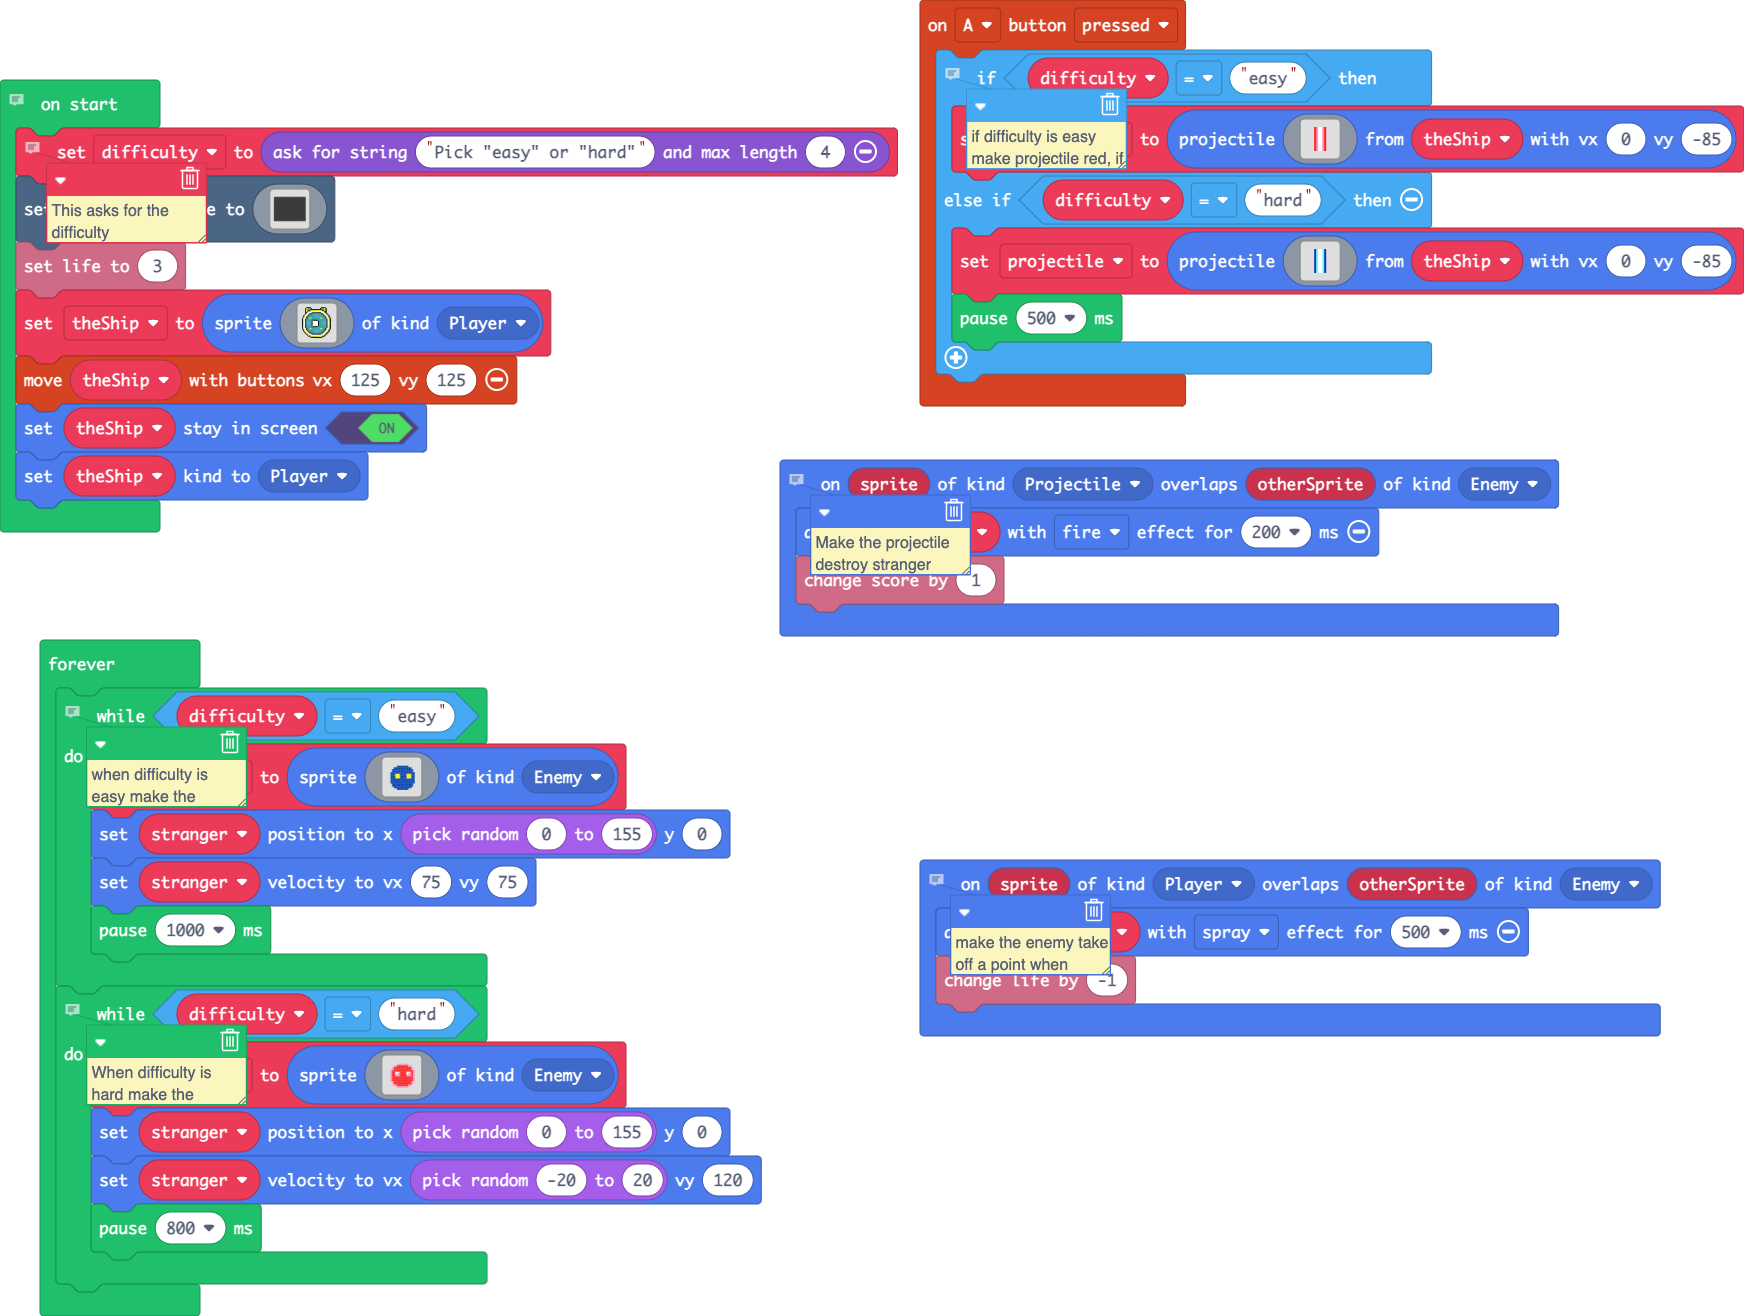
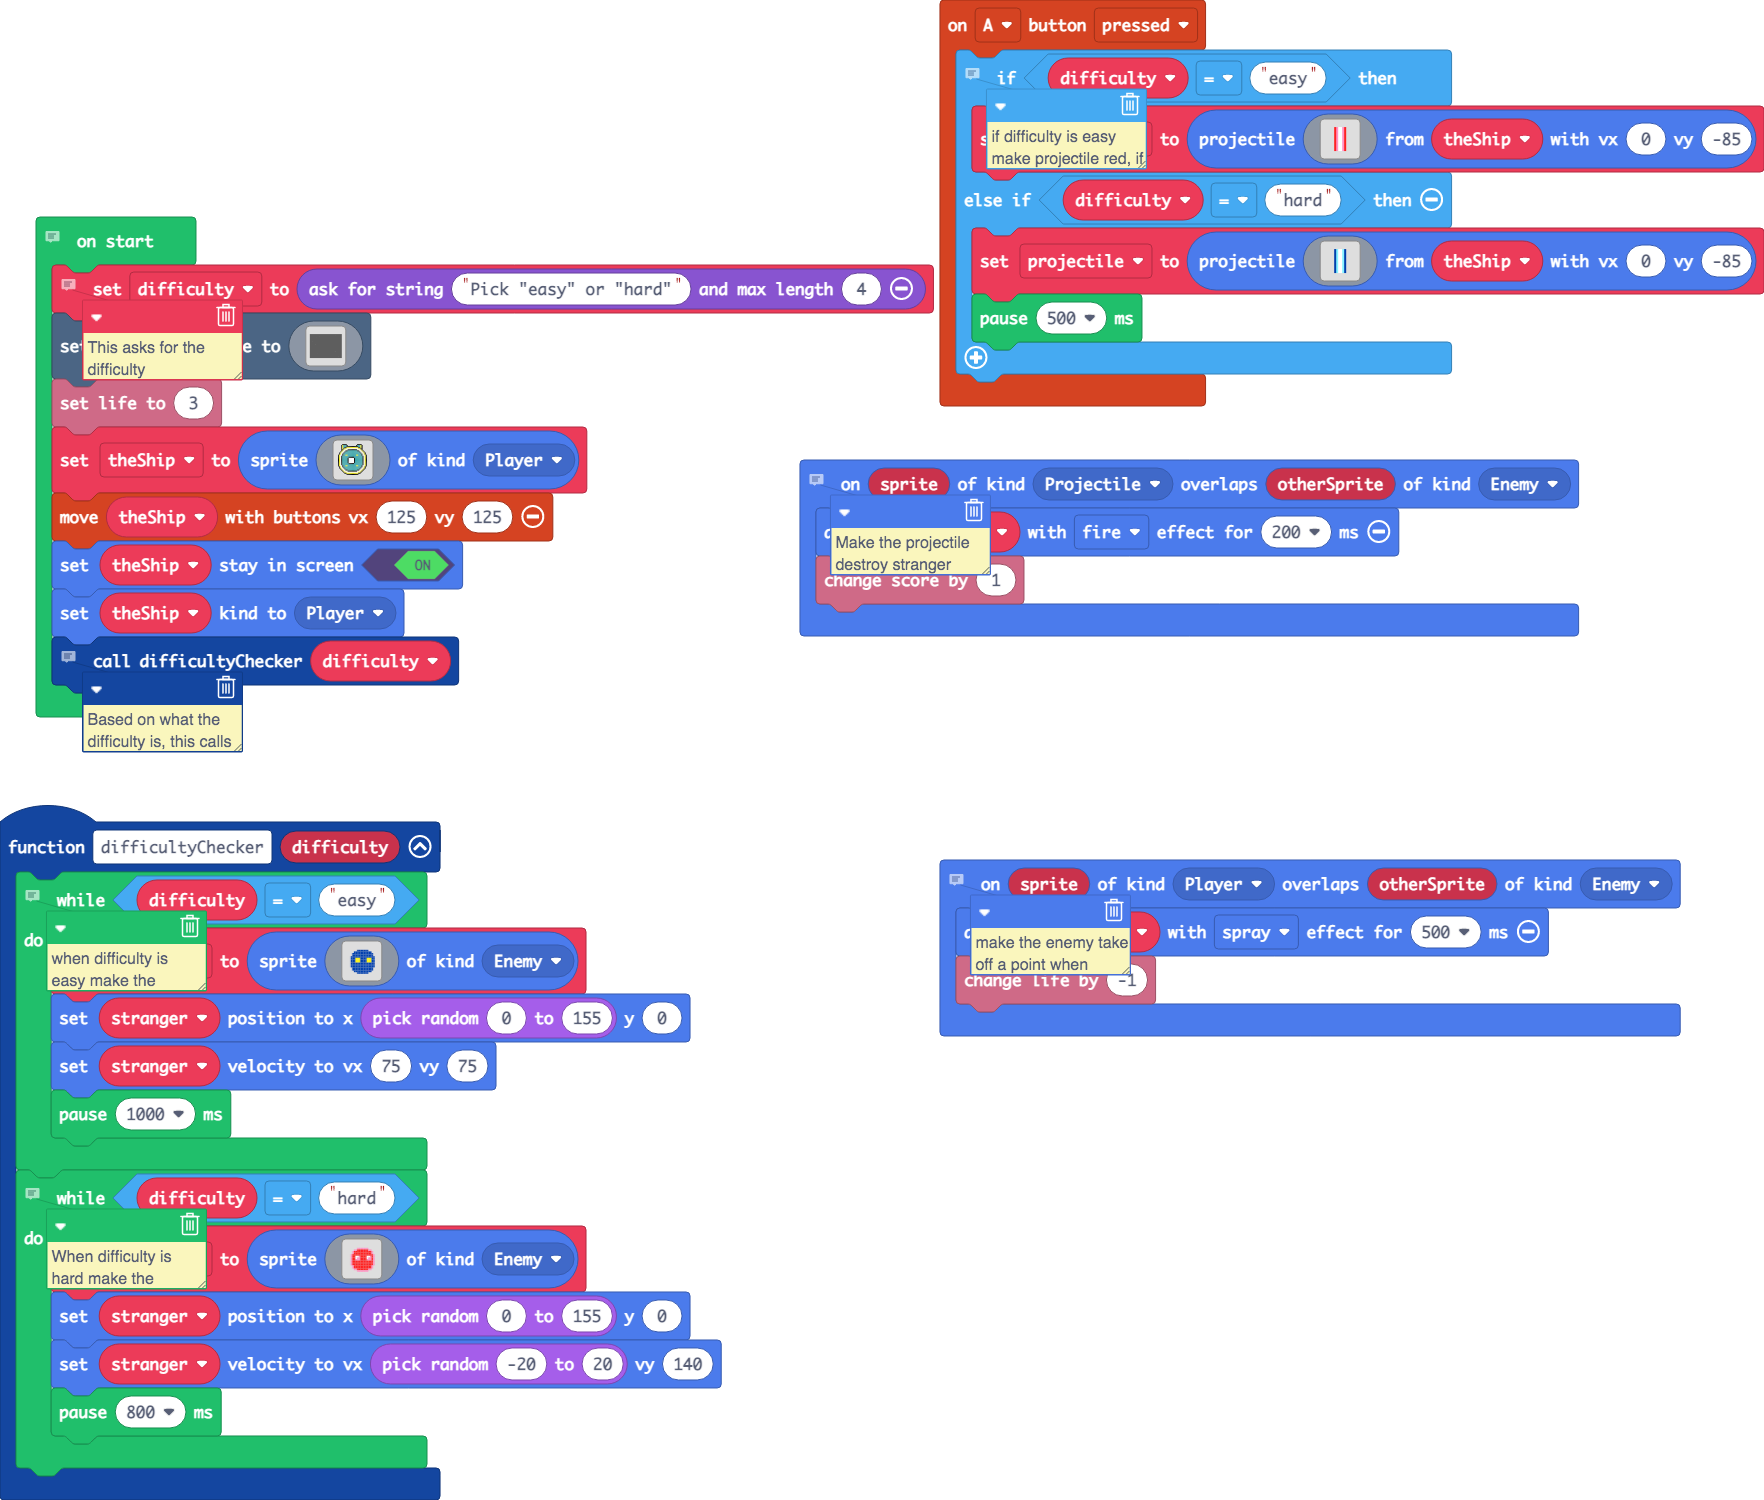
organized the difficulty checker code into a function

diff --git a/main.ts b/main.ts
@@ -41,6 +41,64 @@ controller.A.onEvent(ControllerButtonEvent.Pressed, function () {
         pause(500)
     }
 })
+function difficultyChecker (difficulty: string) {
+    // when difficulty is easy make the enemy appear less frequently and make them slower
+    while (difficulty == "easy") {
+        stranger = sprites.create(img`
+            ....................
+            ....................
+            ....................
+            .......8888888......
+            .....88888888888....
+            ....8888888888888...
+            ....8888888888888...
+            ...888888888888888..
+            ...888555888855588..
+            ...888555888855588..
+            ...888555888855588..
+            ...888888888888888..
+            ...888888888888888..
+            ...888888888888888..
+            ....8888888888888...
+            ....8888888888888...
+            .....88888888888....
+            .......8888888......
+            ....................
+            ....................
+            `, SpriteKind.Enemy)
+        stranger.setPosition(randint(0, 155), 0)
+        stranger.setVelocity(75, 75)
+        pause(1000)
+    }
+    // When difficulty is hard make the enemys appear at a quicker rate and velocity is higher.
+    while (difficulty == "hard") {
+        stranger = sprites.create(img`
+            ....................
+            ....................
+            ....................
+            .......3333333......
+            .....33222222233....
+            ....3222222222223...
+            ....3222222222223...
+            ...322222222222223..
+            ...322113222211323..
+            ...322133222213323..
+            ...322333222233323..
+            ...322222222222223..
+            ...322222222222223..
+            ...322222222222223..
+            ....3222222222223...
+            ....3222222222223...
+            .....33222222233....
+            .......3333333......
+            ....................
+            ....................
+            `, SpriteKind.Enemy)
+        stranger.setPosition(randint(0, 155), 0)
+        stranger.setVelocity(randint(-20, 20), 140)
+        pause(800)
+    }
+}
 // Make the projectile destroy stranger
 sprites.onOverlap(SpriteKind.Projectile, SpriteKind.Enemy, function (sprite, otherSprite) {
     stranger.destroy(effects.fire, 200)
@@ -216,61 +274,5 @@ theShip = sprites.create(img`
 controller.moveSprite(theShip, 125, 125)
 theShip.setStayInScreen(true)
 theShip.setKind(SpriteKind.Player)
-forever(function () {
-    // when difficulty is easy make the enemy appear less frequently and make them slower
-    while (difficulty == "easy") {
-        stranger = sprites.create(img`
-            ....................
-            ....................
-            ....................
-            .......8888888......
-            .....88888888888....
-            ....8888888888888...
-            ....8888888888888...
-            ...888888888888888..
-            ...888555888855588..
-            ...888555888855588..
-            ...888555888855588..
-            ...888888888888888..
-            ...888888888888888..
-            ...888888888888888..
-            ....8888888888888...
-            ....8888888888888...
-            .....88888888888....
-            .......8888888......
-            ....................
-            ....................
-            `, SpriteKind.Enemy)
-        stranger.setPosition(randint(0, 155), 0)
-        stranger.setVelocity(75, 75)
-        pause(1000)
-    }
-    // When difficulty is hard make the enemys appear at a quicker rate and velocity is higher.
-    while (difficulty == "hard") {
-        stranger = sprites.create(img`
-            ....................
-            ....................
-            ....................
-            .......3333333......
-            .....33222222233....
-            ....3222222222223...
-            ....3222222222223...
-            ...322222222222223..
-            ...322113222211323..
-            ...322133222213323..
-            ...322333222233323..
-            ...322222222222223..
-            ...322222222222223..
-            ...322222222222223..
-            ....3222222222223...
-            ....3222222222223...
-            .....33222222233....
-            .......3333333......
-            ....................
-            ....................
-            `, SpriteKind.Enemy)
-        stranger.setPosition(randint(0, 155), 0)
-        stranger.setVelocity(randint(-20, 20), 120)
-        pause(800)
-    }
-})
+// Based on what the difficulty is, this calls a functions that decides how fast the strangers will spawn
+difficultyChecker(difficulty)
